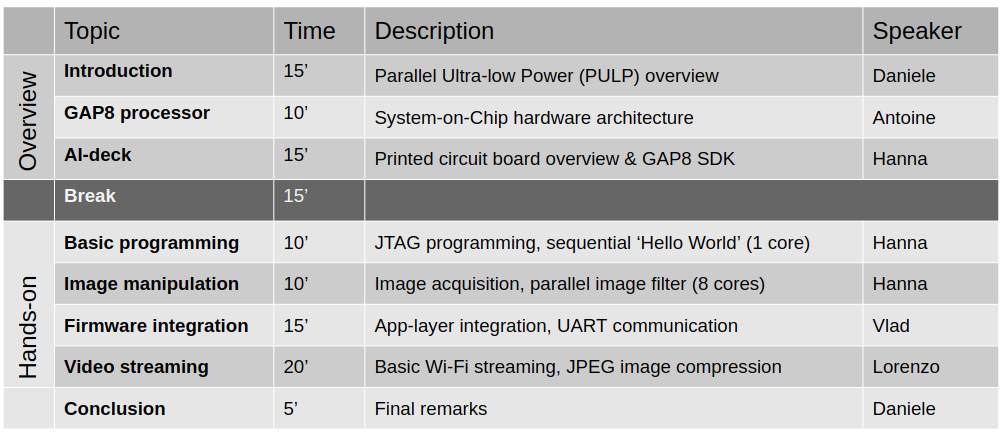
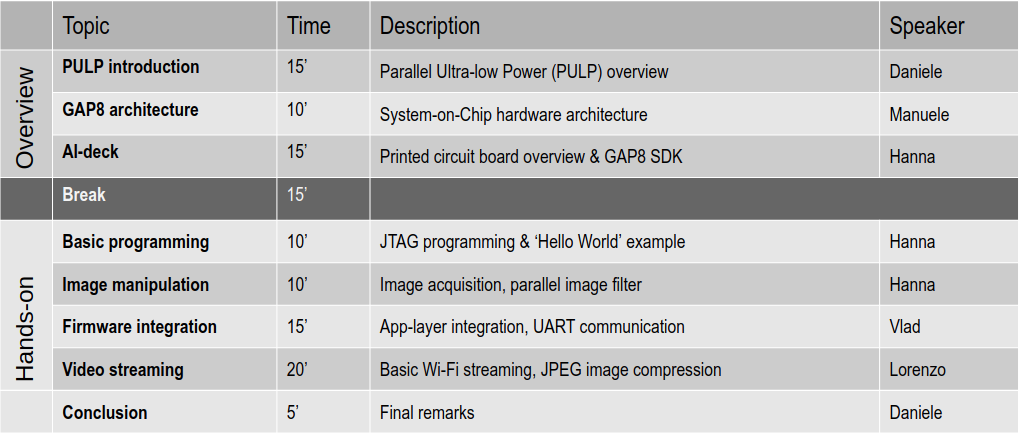
updated aideck workshop page

diff --git a/src/about/events/adws12021.md b/src/about/events/adws12021.md
@@ -5,19 +5,42 @@ page_id: adws-1-2020
 ---
 {% img crazyflie aideck; narrow; /images/events/adws12021/crazyflie_aideck.jpg %}
 
-On Friday the 16th of April in the afternoon, we will host an AIdeck workshop given by the PULP lab featuring Greenwaves Technologies. 
+On Friday the 16th of April in the afternoon, we will host an [AIdeck workshop](https://store.bitcraze.io/products/ai-deck-1-1) given by the PULP lab featuring Greenwaves Technologies. 
 
 Keep checking this event page, [sign up your email](https://forms.gle/gHPE5UrMpmmFUwEk9) or [join our discord server](https://discord.gg/dJMtnPZnvU) to stay up to date.
 
 ## Information
 
-Date and Time: **16th April, 14:00 (2 pm) - 16:00 (4 pm)** (Central European Time)
+*Date and Time*: **16th April, 14:00 (2 pm) - 16:00 (4 pm)** (Central European Summer Time)
 
-Place: [The Bitcraze Discord server](https://discord.gg/dJMtnPZnvU) in _tutorial and workshops_
+*Place*: [The Bitcraze Discord server](https://discord.gg/dJMtnPZnvU) in **tutorials and workshops**
 
-The whole workshop will be recorded and available on this page after the event.
-
+*Speakers*:
+* Lorenzo Lamberti (University of Bologna)
+* Hanna Müller (ETH Zürich)
+* Vlad Niculescu (ETH Zürich)
+* Dr. Manuele Rusci (University of Bologna / Greenwaves Technology)
+* Dr. Daniele Palossi (IDSIA Lugano / ETH Zürich)
 ### Program:
 {% img Program; large; /images/events/adws12021/program.png %}
 
-### More information will follow soon!
+### Instructions:
+After entering [the Bitcraze Discord server](https://discord.gg/dJMtnPZnvU), the workshop will be given in **tutorial and workshops** category.:
+* **tutorial_video**: The live video of the presenters and the slides will be shown here. The sound and video will be disabled for participants.
+* **tutorial_chat**: Here you can ask questions and talk to the presenters.
+{% img Program; small; /images/events/adws12021/discord.png %}
+
+
+
+### Virtual Machine:
+For this workshop we have made a [Bitcraze VM with AIdeck development environment](https://storage.googleapis.com/bitcraze-share/vm/BitcrazeVM_aideck.ova) (10Gb). This VM has already preconfigured docker images for flashing both the GAP8 and the NINA chip. All you need to do is to cd to your examples (like 'cd projects/AIdeck_examples/GAP8/test_functionalities/test_camera') and type the following command:
+- If you want to try out the code on RAM only: 	'gap_run'
+- If you want to flash the gap8:               	'gap_flash'
+
+To reflash the NINA, go to 'AIdeck_examples/NINA/firmware' and type:
+- To configure and flash the Nina: 		'nina_flash'
+These commands are configured ~/.bashrc
+
+If you rather want to install the gap_sdk natively (only Ubuntu), please follow the [gap_sdk instructions](https://greenwaves-technologies.com/manuals/BUILD/HOME/html/index.html) by Greenwaves Technologies. Make sure to also have gap_tools installed and to do this ahead of time of the workshop as it takes about an hour to set-it-up.
+
+#### The whole workshop will be recorded and available (with slides) on this page after the event!
